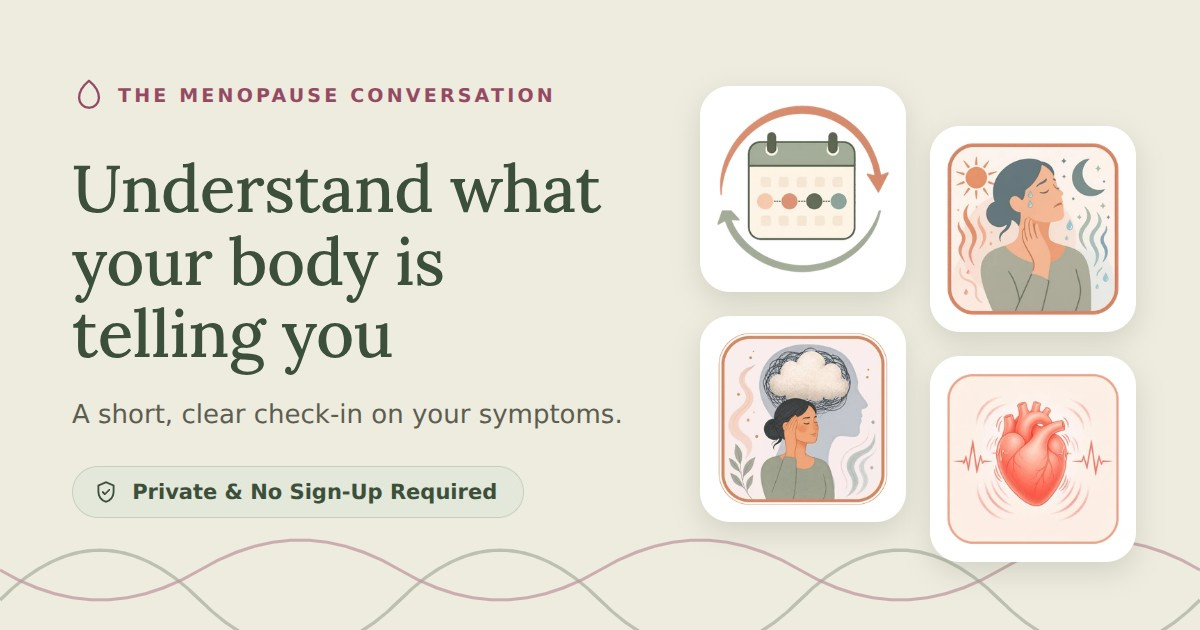
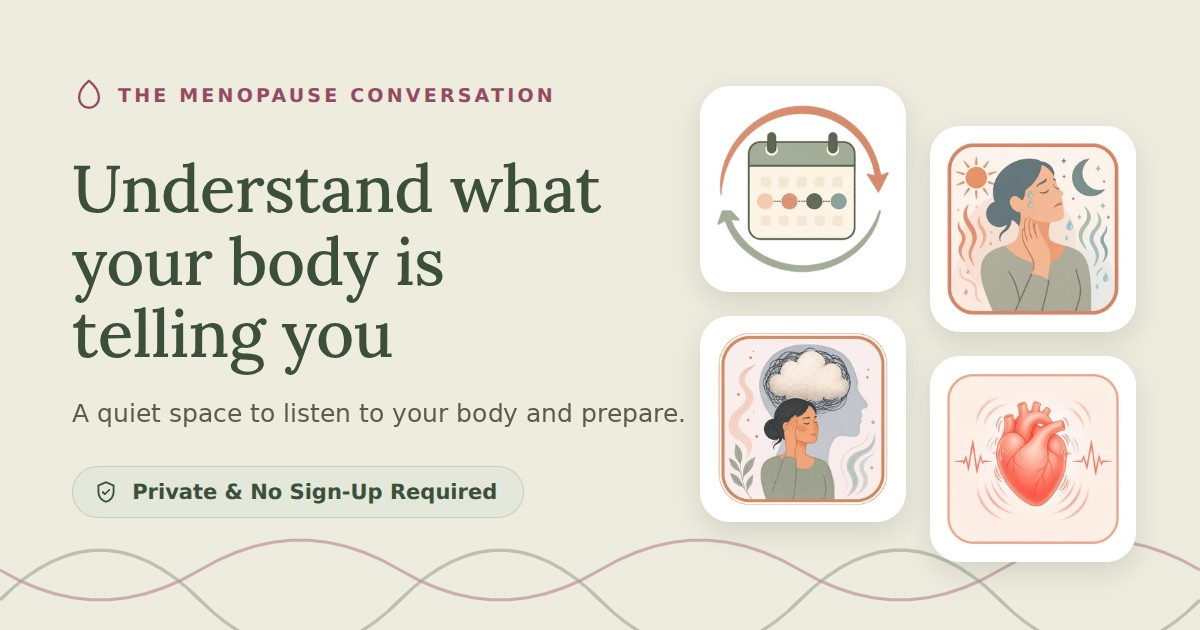
Add files via upload
Updated the Home Page prompt

Changed region(s): [[0.0617, 0.6333, 0.555, 0.6937]]

diff --git a/lang/bn.js b/lang/bn.js
@@ -8,7 +8,7 @@ window.registerLanguage({
   "ui": {
     "appTitleShort": "The Menopause Conversation",
     "appTitle": "আপনার শরীর কী বলছে তা বুঝুন",
-    "appSubtitle": "আপনার লক্ষণগুলির একটি সংক্ষিপ্ত ও স্পষ্ট চেক-ইন।",
+    "appSubtitle": "নিজের শরীরের কথা শোনার এবং প্রস্তুতি নেওয়ার জন্য একটি শান্ত জায়গা।",
     "introBody": "নারীদের স্বাস্থ্য ও মেয়াদ উত্তীর্ণ হওয়া/মাসিক বন্ধের (মেনোপজ) আলোচনায় আপনাকে স্বাগতম: এই ছোট স্বাস্থ্য বিষয়ক মাধ্যমটি ডাক্তারের সাথে কথা বলার আগে আপনার শরীরের লক্ষণগুলো গুছিয়ে নিতে ও খেয়াল রাখতে সাহায্য করবে। অনুগ্রহ করে নিচের সহজ ধাপগুলো মেনে চলুন:",
     "startButton": "চেক শুরু করুন",
     "questionCounter": "প্রশ্ন {n} / 15",

diff --git a/lang/bn-bd.js b/lang/bn-bd.js
@@ -8,7 +8,7 @@ window.registerLanguage({
   "ui": {
     "appTitleShort": "The Menopause Conversation",
     "appTitle": "আপনার শরীর কী বলছে তা বুঝুন",
-    "appSubtitle": "আপনার লক্ষণগুলির একটি সংক্ষিপ্ত ও স্পষ্ট চেক-ইন।",
+    "appSubtitle": "নিজের শরীরের কথা শোনার এবং প্রস্তুতি নেওয়ার জন্য একটি শান্ত জায়গা।",
     "introBody": "মেনোপজ নিয়ে আলোচনায় আপনাকে স্বাগতম। এই সংক্ষিপ্ত স্বাস্থ্য টুলটি আপনার স্বাস্থ্যসেবা প্রদানকারীর সঙ্গে কথা বলার আগে আপনার লক্ষণগুলো গুছিয়ে রাখতে এবং ট্র্যাক করতে সাহায্য করবে। নিচের সহজ ধাপগুলো অনুসরণ করুন:",
     "startButton": "চেক শুরু করুন",
     "questionCounter": "প্রশ্ন {n} / 15",

diff --git a/lang/ne.js b/lang/ne.js
@@ -8,7 +8,7 @@ window.registerLanguage({
   "ui": {
     "appTitleShort": "The Menopause Conversation",
     "appTitle": "आफ्नो शरीरले के भन्दैछ बुझ्नुहोस्",
-    "appSubtitle": "तपाईंका लक्षणहरूको छोटो र स्पष्ट जाँच।",
+    "appSubtitle": "आफ्नो शरीरको कुरा सुन्न र तयारी गर्नका लागि एउटा शान्त ठाउँ।",
     "introBody": "महिला स्वास्थ्य र महिनावारी सुक्ने/सकिने (मिनोपोज) कुराकानीमा यहाँलाई स्वागत छ: यो छोटो स्वास्थ्य साधनले डाक्टरसँग कुरा गर्नुअघि आफ्ना लक्षणहरू मिलाउन र बुझ्न मद्दत गर्छ। कृपया तलका यी सजिला चरणहरू अपनाउनुहोस्:",
     "startButton": "जाँच सुरु गर्नुहोस्",
     "questionCounter": "प्रश्न {n} / 15",

diff --git a/lang/pa.js b/lang/pa.js
@@ -8,7 +8,7 @@ window.registerLanguage({
   "ui": {
     "appTitleShort": "The Menopause Conversation",
     "appTitle": "ਜਾਣੋ ਤੁਹਾਡਾ ਸਰੀਰ ਕੀ ਕਹਿ ਰਿਹਾ ਹੈ",
-    "appSubtitle": "ਤੁਹਾਡੇ ਲੱਛਣਾਂ ਦੀ ਇੱਕ ਛੋਟੀ ਅਤੇ ਸਪੱਸ਼ਟ ਜਾਂਚ।",
+    "appSubtitle": "ਆਪਣੇ ਸਰੀਰ ਦੀ ਗੱਲ ਸੁਣਨ ਅਤੇ ਤਿਆਰੀ ਕਰਨ ਲਈ ਇੱਕ ਸ਼ਾਂਤ ਥਾਂ।",
     "introBody": "ਮੀਨੋਪੌਜ਼ ਦੀ ਗੱਲਬਾਤ ਵਿੱਚ ਜੀ ਆਇਆਂ ਨੂੰ. ਇਹ ਛੋਟਾ ਜਿਹਾ ਸਿਹਤ ਟੂਲ ਤੁਹਾਡੀ ਮਦਦ ਕਰਦਾ ਹੈ ਕਿ ਡਾਕਟਰ ਕੋਲ ਜਾਣ ਤੋਂ ਪਹਿਲਾਂ, ਤੁਸੀਂ ਆਪਣੀ ਤਕਲੀਫ਼ਾਂ ਨੂੰ ਸਾਫ਼-ਸਾਫ਼ ਲਿਖ ਕੇ ਸਮਝ ਸਕੋ। ਹੇਠਾਂ ਦੱਸੇ ਸੌਖੇ ਕਦਮ ਅਪਣਾਓ:",
     "startButton": "ਜਾਂਚ ਸ਼ੁਰੂ ਕਰੋ",
     "questionCounter": "ਸਵਾਲ {n} / 15",

diff --git a/lang/hi.js b/lang/hi.js
@@ -8,7 +8,7 @@ window.registerLanguage({
   "ui": {
     "appTitleShort": "मेनोपॉज़ जांच",
     "appTitle": "जानिए आपका शरीर क्या कह रहा है",
-    "appSubtitle": "आपके लक्षणों की एक छोटी और स्पष्ट जांच।",
+    "appSubtitle": "अपने शरीर की बात सुनने और तैयारी करने के लिए एक शांत जगह।",
     "introBody": "'मीनोपॉज़ की बातचीत' में आपका स्वागत है. यह छोटा सा टूल डॉक्टर से बात करने से पहले आपके लक्षणों को समझने और लिखने में आपकी मदद करेगा। नीचे दिए गए आसान तरीकों को देखें:",
     "startButton": "जांच शुरू करें",
     "questionCounter": "प्रश्न {n} / 15",

diff --git a/lang/ur.js b/lang/ur.js
@@ -8,7 +8,7 @@ window.registerLanguage({
   "ui": {
     "appTitleShort": "The Menopause Conversation",
     "appTitle": "جانیے آپ کا جسم کیا کہہ رہا ہے",
-    "appSubtitle": "آپ کی علامات کا ایک مختصر اور واضح جائزہ۔",
+    "appSubtitle": "اپنے جسم کی بات سننے اور تیاری کرنے کے لیے ایک پرسکون جگہ۔",
     "introBody": "مینوپاز کی بات چیت میں خوش آمدید۔ یہ مختصر ہیلتھ ٹول آپ کو اپنی علامات کو ترتیب دینے اور نوٹ کرنے میں مدد دیتا ہے، اس سے پہلے کہ آپ اپنے ڈاکٹر سے بات کریں۔ براہ کرم نیچے دیے گئے آسان مرحلے اپنائیں:",
     "startButton": "جانچ شروع کریں",
     "questionCounter": "سوال {n} از 15",

diff --git a/lang/vi.js b/lang/vi.js
@@ -8,7 +8,7 @@ window.registerLanguage({
   "ui": {
     "appTitleShort": "The Menopause Conversation",
     "appTitle": "Hiểu cơ thể bạn đang nói gì",
-    "appSubtitle": "Một bài kiểm tra ngắn gọn, rõ ràng về các triệu chứng của bạn.",
+    "appSubtitle": "Một không gian yên tĩnh để lắng nghe cơ thể và chuẩn bị.",
     "introBody": "Chào mừng các bạn đến với công cụ “Trò chuyện về Sức khỏe Tuổi mãn kinh” Công cụ theo dõi sức khỏe ngắn gọn này sẽ giúp chị em dễ dàng ghi lại các dấu hiệu bất thường trước cuộc hẹn với bác sĩ. Xin vui lòng làm theo các bước đơn giản sau:",
     "startButton": "Bắt đầu kiểm tra",
     "questionCounter": "Câu hỏi {n}/15",

diff --git a/lang/fa.js b/lang/fa.js
@@ -8,7 +8,7 @@ window.registerLanguage({
   "ui": {
     "appTitleShort": "The Menopause Conversation",
     "appTitle": "بفهمید بدنتان چه میگوید",
-    "appSubtitle": "یک بررسی کوتاه و روشن از علائم شما.",
+    "appSubtitle": "فضایی آرام برای گوش دادن به بدنتان و آماده شدن.",
     "introBody": "به «گفتگوی یائسگی» خوش اومدید این ابزار سلامت کوچیک کمکتون میکنه که قبل از صحبت با دکتر، علائمتون رو مرتب کنید و یادداشت کنید. لطفاً مراحل ساده زیر رو دنبال کنید:",
     "startButton": "شروع بررسی",
     "questionCounter": "سؤال {n} از 15",

diff --git a/lang/tl.js b/lang/tl.js
@@ -8,7 +8,7 @@ window.registerLanguage({
   "ui": {
     "appTitleShort": "The Menopause Conversation",
     "appTitle": "Unawain kung ano ang sinasabi ng iyong katawan",
-    "appSubtitle": "Isang maikli at malinaw na pagsusuri ng iyong mga sintomas.",
+    "appSubtitle": "Isang tahimik na lugar para making sa iyong katawan at maghanda.",
     "introBody": "Maligayang Pagdating sa The Menopause Conversation (Usapang Menepause) Itong simpleng pangkalusugang kasangkapan na ito ay makakatulong sa'yo na ayusin at (masubaybayan/masuri) ang mga sintomas mo bago ka kumausap ng manggagamot. Pakiusap Sundan mo lang itong simpleng hakbang:",
     "startButton": "Simulan ang pagsusuri",
     "questionCounter": "Tanong {n} sa 15",

diff --git a/lang/ro.js b/lang/ro.js
@@ -8,7 +8,7 @@ window.registerLanguage({
   "ui": {
     "appTitleShort": "The Menopause Conversation",
     "appTitle": "Înțelege ce îți spune corpul tău",
-    "appSubtitle": "O verificare scurtă și clară a simptomelor tale.",
+    "appSubtitle": "Un spațiu liniștit pentru a vă asculta corpul și a vă pregăti.",
     "introBody": "Bine ați venit la conversația despre sănătatea femeilor și menopauză: Acest scurt chestionar de sănătate vă ajută să vă organizați și să vă urmăriți stările și simptomele înainte de a vorbi cu medicul dumneavoastră. Vă rugăm să urmați acești pași simpli:",
     "startButton": "Începe verificarea",
     "questionCounter": "Întrebarea {n} din 15",

diff --git a/lang/ja.js b/lang/ja.js
@@ -8,7 +8,7 @@ window.registerLanguage({
   "ui": {
     "appTitleShort": "The Menopause Conversation",
     "appTitle": "あなたの体が伝えていることを知りましょう",
-    "appSubtitle": "症状を短く、わかりやすくチェックします。",
+    "appSubtitle": "自分の体の声に耳を傾け、備えるための静かな場所。",
     "introBody": "更年期についての対話へようこそ. この簡単な健康管理ツールは、医療機関に相談する前に、症状を整理して記録するのに役立ちます。以下の簡単な手順に沿ってご利用ください。",
     "startButton": "チェックを始める",
     "questionCounter": "質問 {n} / 15",

diff --git a/lang/ar-gulf.js b/lang/ar-gulf.js
@@ -8,7 +8,7 @@ window.registerLanguage({
   "ui": {
     "appTitleShort": "The Menopause Conversation",
     "appTitle": "افهمي شنو يقول لج جسمج",
-    "appSubtitle": "تقييم قصير وواضح لأعراضج.",
+    "appSubtitle": "مساحة هادية تسمعين فيها جسمج وتستعدين.",
     "introBody": "مرحباً بك في «حديث سن اليأس». هالأداة البسيطة تساعدك تنظمين وتتابعين أعراضك قبل لا تتكلمين مع دكتورتك. اتبعي هالخطوات البسيطة:",
     "startButton": "ابدئي التقييم",
     "questionCounter": "السؤال {n} من 15",
